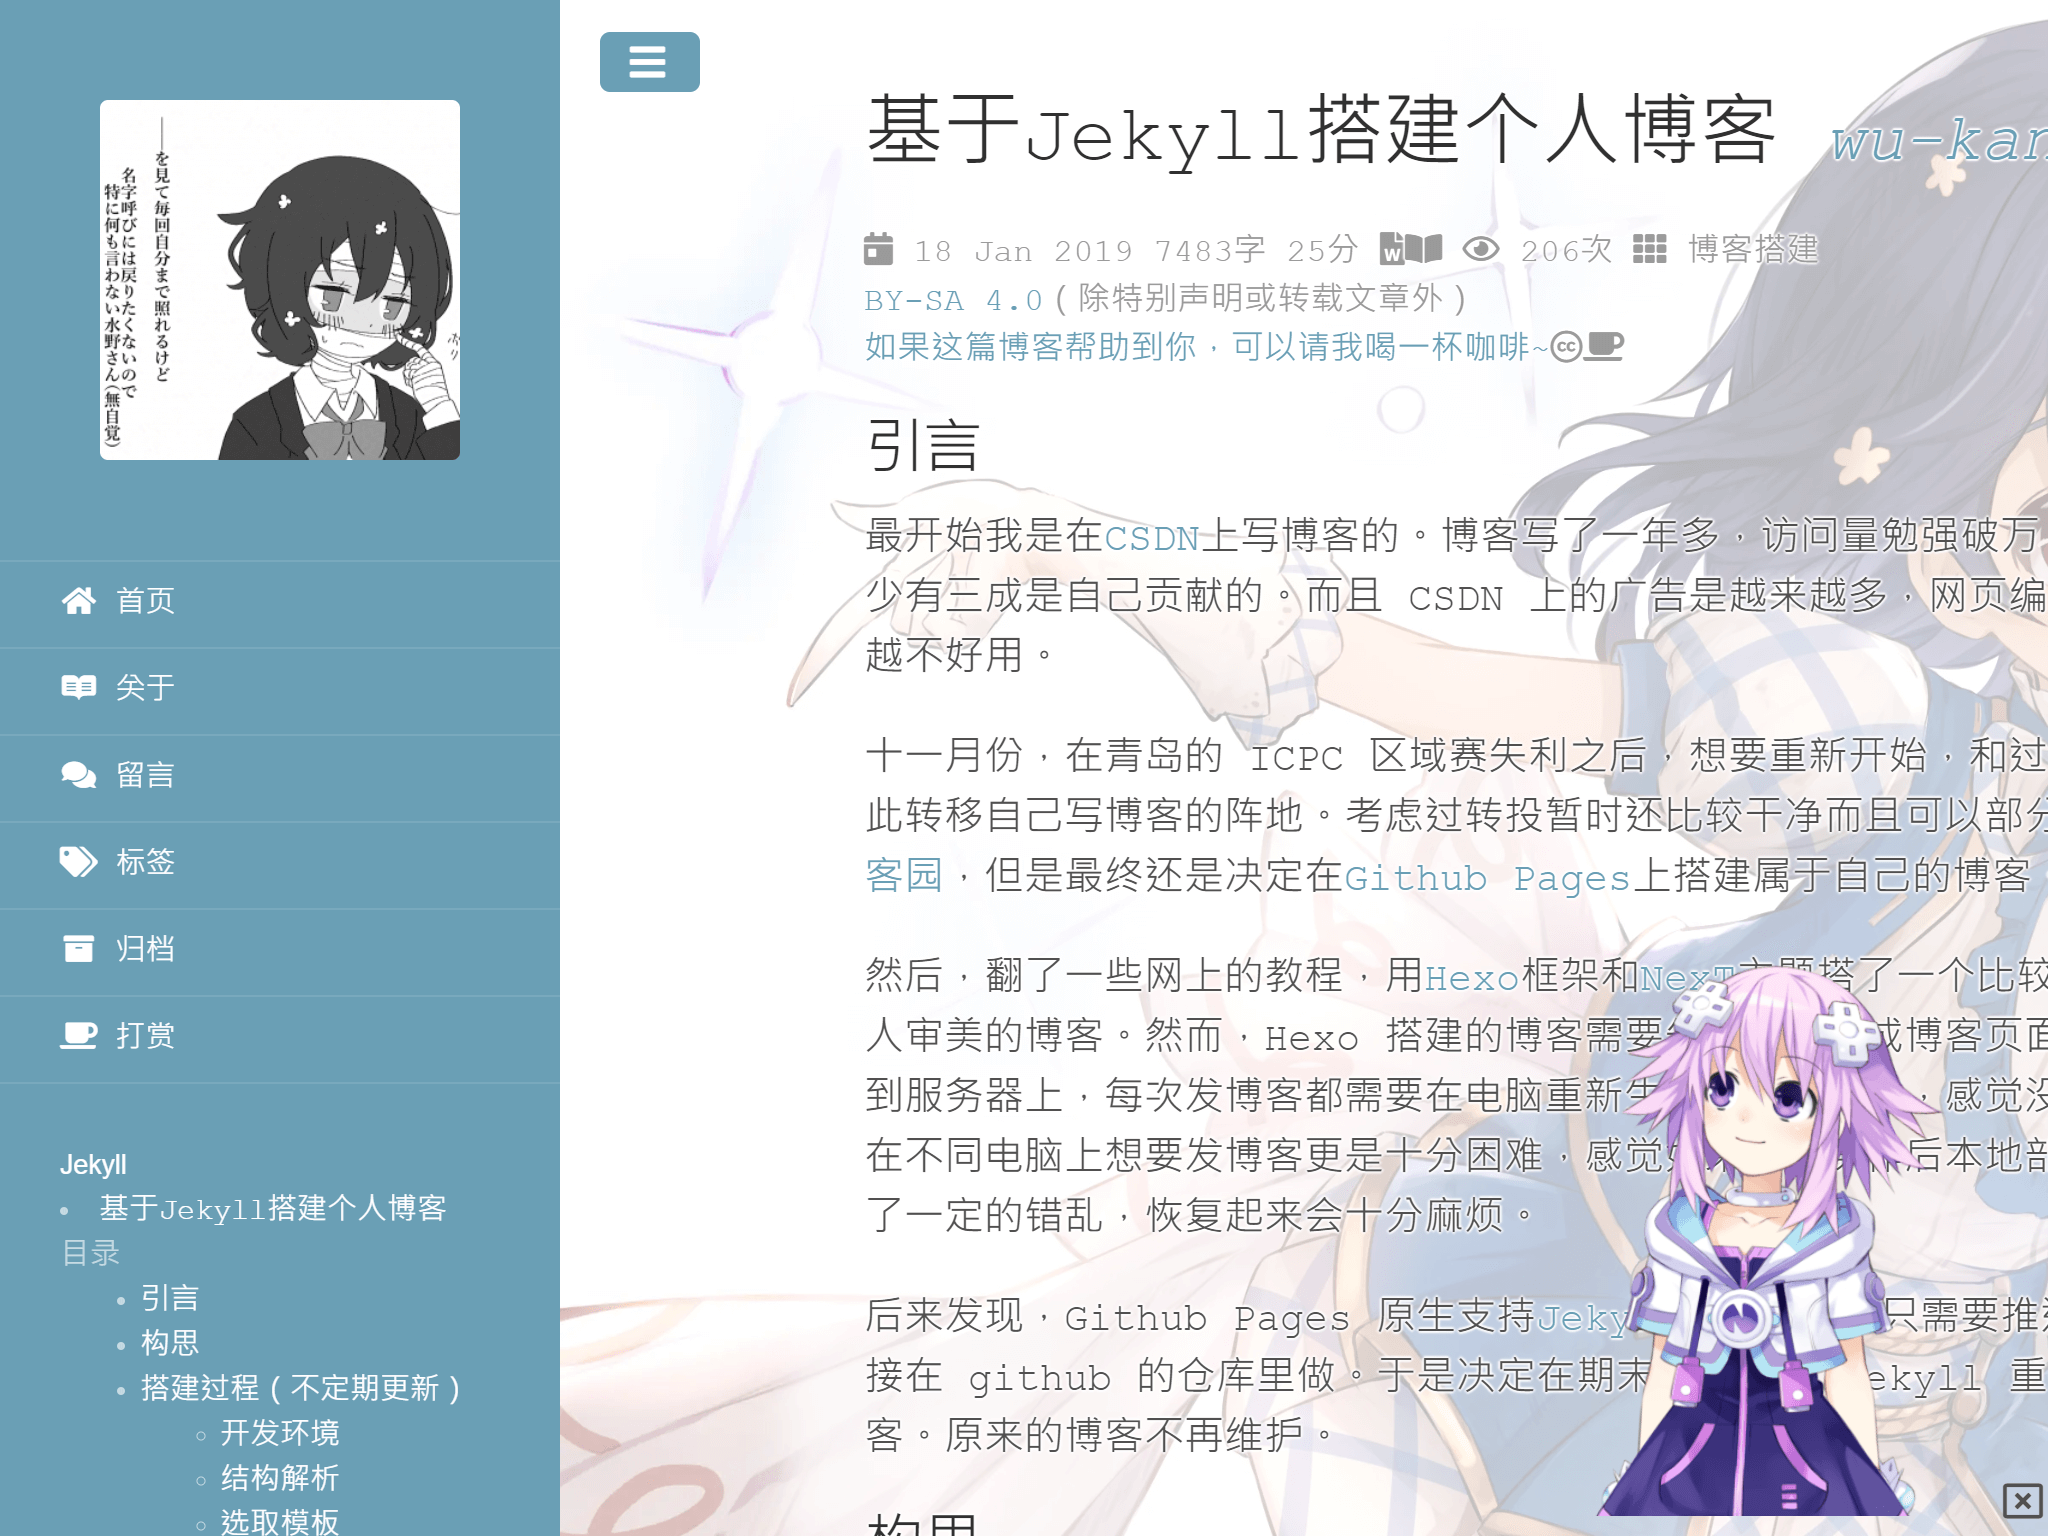
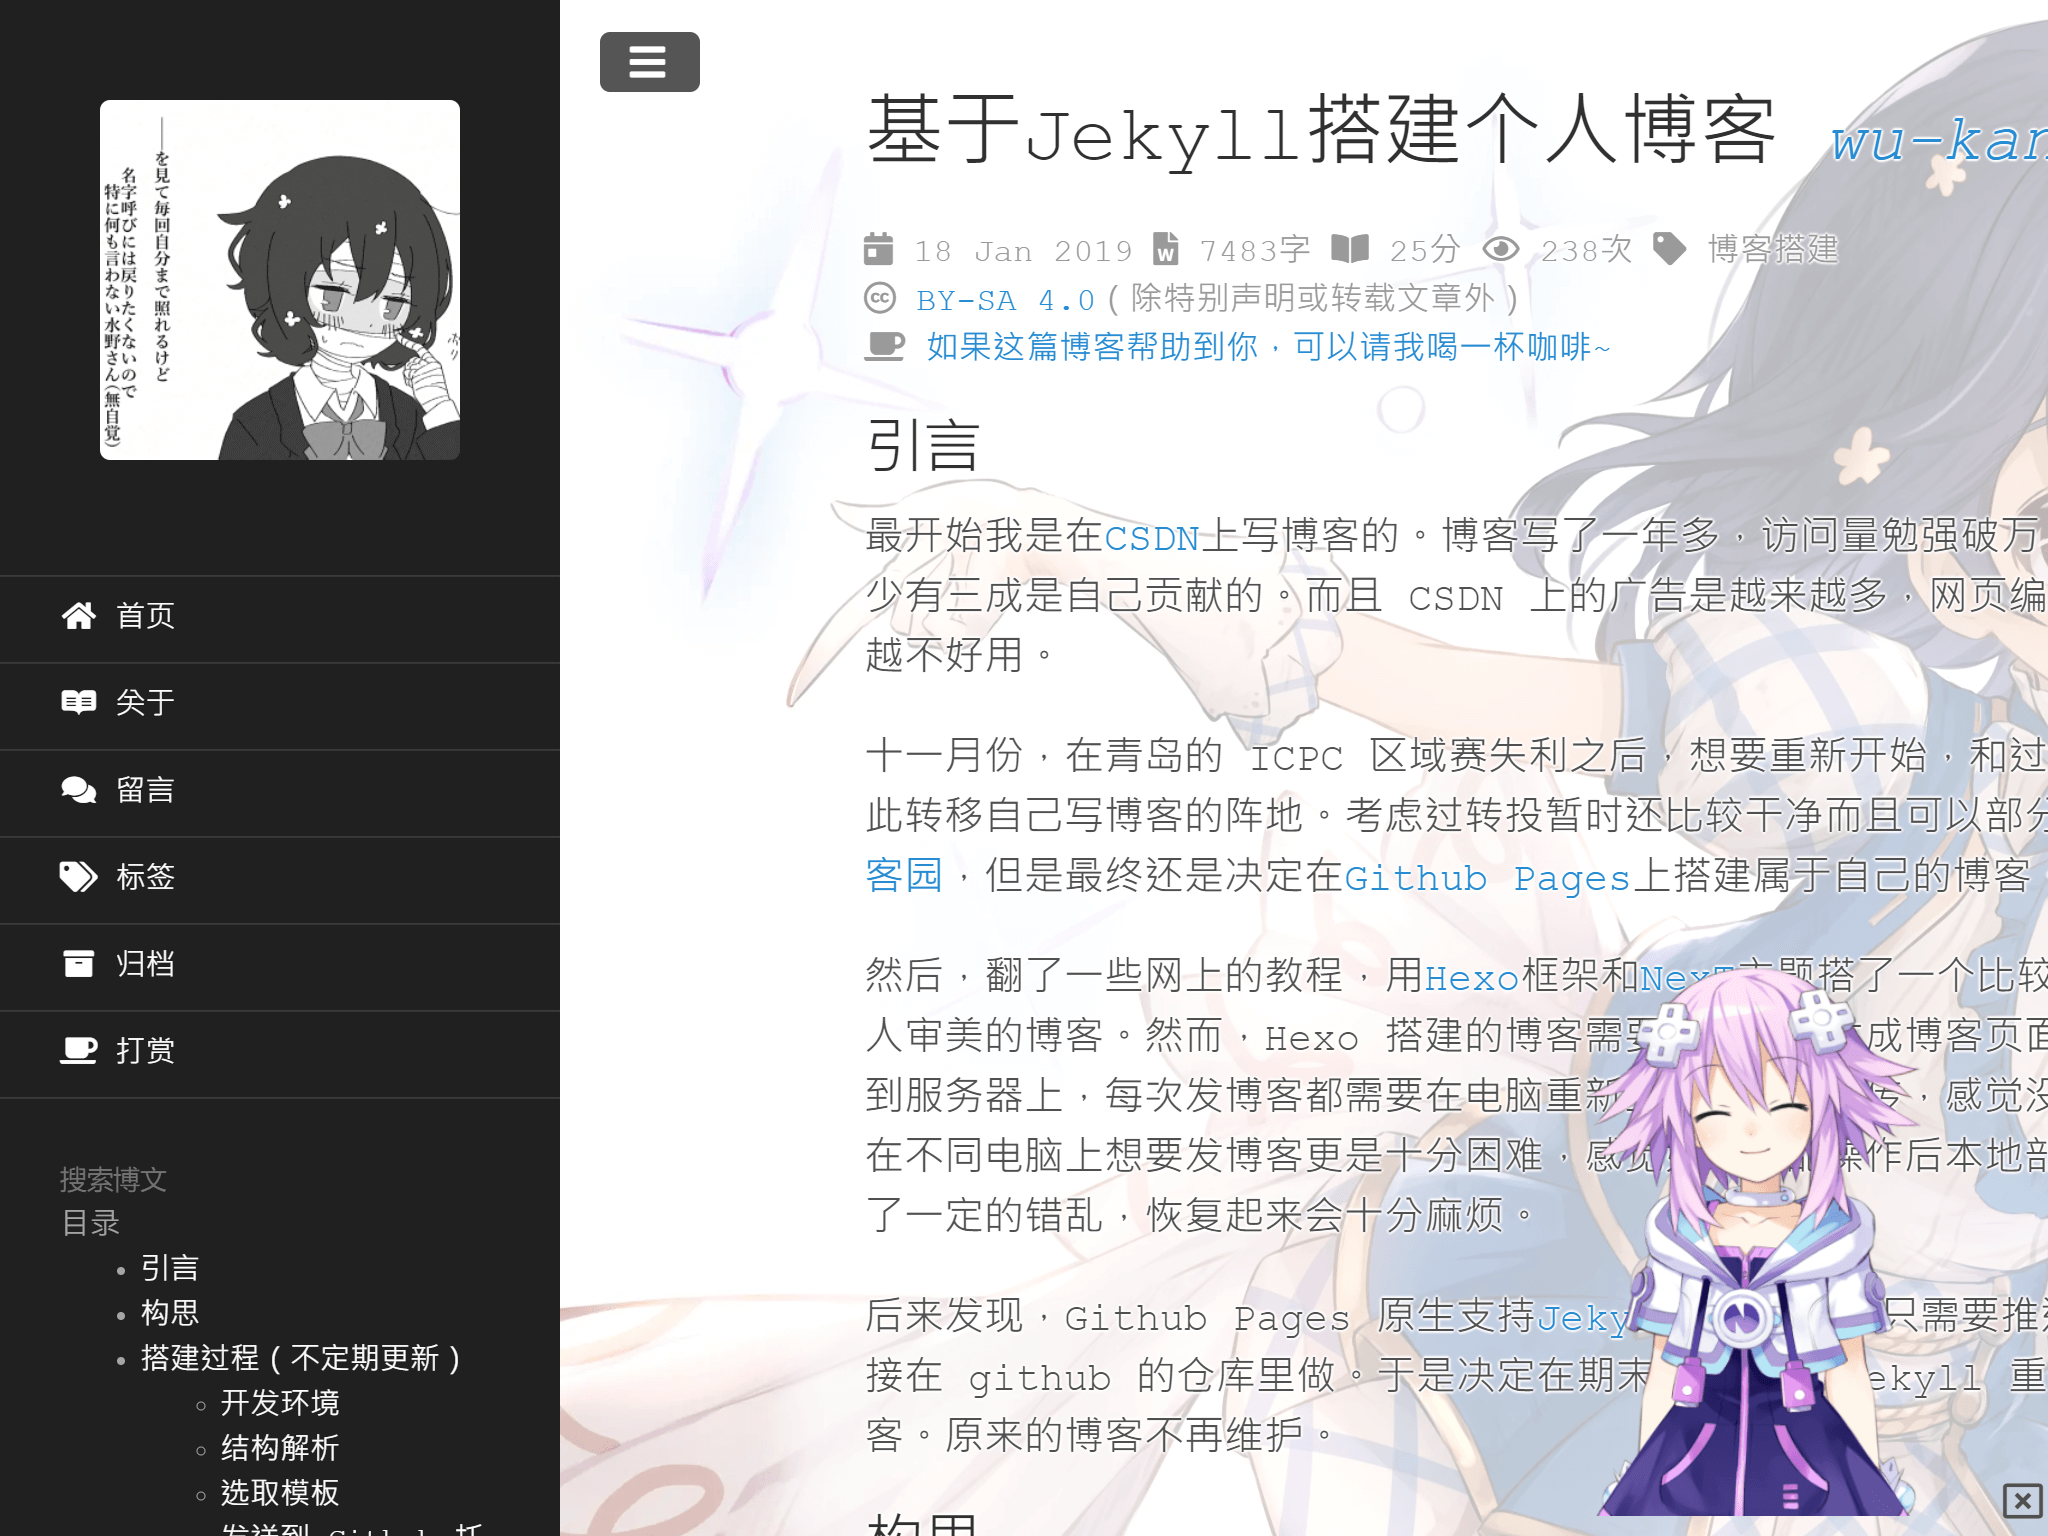
v3.0.0完成~

diff --git a/_layouts/page.html b/_layouts/page.html
@@ -16,9 +16,9 @@
   <div class="sidebar" id="sidebar">
     {% if site.page.sidebar.avatar.enable %}
     <div class="sidebar-item">
-      <div class="ih-item circle effect right_to_left">
-        <img class="img" src="{{ site.page.sidebar.avatar.img }}" alt="img" />
-        <div class="info">
+      <div class="effect effect-right_to_left">
+        <img class="effect-img" src="{{ site.page.sidebar.avatar.img }}" alt="img" />
+        <div class="effect-info">
           {{ site.description }}
         </div>
       </div>
@@ -52,19 +52,6 @@
         {% else %}
         {{ count }}{{ site.page.sidebar.wordcount.unit }}
         {% endif %}
-      </div>
-      {% endif %}
-      {% if site.page.sidebar.last_edit.enable %}
-      <div>
-        {{ site.page.sidebar.last_edit.alert }}
-        {{ site.time | date: '%F %T' }}
-      </div>
-      {% endif %}
-      {% if site.page.sidebar.copyright.enable %}
-      <div>
-        {{ site.page.sidebar.copyright.alert }}
-        {{ site.time | date: '%Y' }}
-        {{ site.author.name }}
       </div>
       {% endif %}
     </div>

diff --git a/README.md b/README.md
@@ -4,56 +4,25 @@ title: 关于
 permalink: /about/
 ---
 
+![Stars](https://img.shields.io/github/stars/wu-kan/wu-kan.github.io.svg)![Forks](https://img.shields.io/github/forks/wu-kan/wu-kan.github.io.svg)![Watchers](https://img.shields.io/github/watchers/wu-kan/wu-kan.github.io.svg)![License](https://img.shields.io/github/license/wu-kan/wu-kan.github.io.svg)![commit-activity](https://img.shields.io/github/commit-activity/m/wu-kan/wu-kan.github.io.svg)![last-commit](https://img.shields.io/github/last-commit/wu-kan/wu-kan.github.io.svg)![contributors](https://img.shields.io/github/contributors-anon/wu-kan/wu-kan.github.io.svg)![Issues](https://img.shields.io/github/issues/wu-kan/wu-kan.github.io.svg)![Release](https://img.shields.io/github/v/release/wu-kan/wu-kan.github.io.svg)![release-date](https://img.shields.io/github/release-date/wu-kan/wu-kan.github.io.svg)![CountLanguage](https://img.shields.io/github/languages/count/wu-kan/wu-kan.github.io.svg)![TopLanguage](https://img.shields.io/github/languages/top/wu-kan/wu-kan.github.io.svg)![CodeSize](https://img.shields.io/github/languages/code-size/wu-kan/wu-kan.github.io.svg)![RepoSize](https://img.shields.io/github/repo-size/wu-kan/wu-kan.github.io.svg)![Downloads](https://img.shields.io/github/downloads/wu-kan/wu-kan.github.io/total.svg)
+
 ## 开始
 
 1. Fork [wu-kan/wu-kan.github.io](https://github.com/wu-kan/wu-kan.github.io/fork)到你的仓库，并在设置里开启 gh-pages
-2. 修改`_config.yml`为你自己的信息
-3. 修改`CNAME`中的网址为你自己的网址，如`wu-kan.github.io`或者`wu-kan.cn`
-4. 删除`_post/`下的博文和`assets/image/`目录下的图片，开始写你自己的文章
-5. 配置过程推荐以下几篇博文：
+   - 由于我的博客仍然在持续更新调整，建议在 Tag 或者 Release 中选择已发布的稳定版本食用~
+2. 修改`CNAME`中的网址为你自己的网址，如`wu-kan.github.io`或者`wu-kan.cn`
+3. 现在你的网址应该可以访问了，配置`_config.yml`你自己的信息，能看懂多少就改多少；配置过程推荐以下几篇博文：
    - [基于 Jekyll 搭建个人博客](https://wu-kan.cn/_posts/2019-01-18-%E5%9F%BA%E4%BA%8EJekyll%E6%90%AD%E5%BB%BA%E4%B8%AA%E4%BA%BA%E5%8D%9A%E5%AE%A2/)
    - [Markdown 写作心得](https://wu-kan.cn/_posts/2019-01-18-%E5%9F%BA%E4%BA%8EJekyll%E6%90%AD%E5%BB%BA%E4%B8%AA%E4%BA%BA%E5%8D%9A%E5%AE%A2/)
    - [个人网站优化之旅](https://wu-kan.cn/_posts/2020-02-06-%E4%B8%AA%E4%BA%BA%E7%BD%91%E7%AB%99%E4%BC%98%E5%8C%96%E4%B9%8B%E6%97%85/)
-
-![Demo](/screenshot.png)
+4. 删除`_post/`下的博文和`assets/image/`目录下的图片，开始写你自己的文章
+5. 欢迎 Star、Fork、Issue！
 
 ## 声明
 
 除特别声明或转载外，所有博文采用[署名-相同方式共享 4.0 国际](https://creativecommons.org/licenses/by-sa/4.0/deed.zh)协议进行许可。
 
 博客基于[MIT License](https://github.com/wu-kan/wu-kan.github.io/blob/master/LICENSE)开源于[GitHub](https://github.com/wu-kan/wu-kan.github.io)。
-
-## 致谢
-
-托管于[Github Pages](https://pages.github.com/)，感谢。
-
-博客引擎来自于[jekyll/jekyll](https://github.com/jekyll/jekyll)，感谢。
-
-CDN 加速服务来自于<https://cdn.jsdelivr.net/>和<https://loli.net>，感谢。
-
-博客主题基于[poole/lanyon](https://github.com/poole/lanyon)，感谢。
-
-图标库来自于[<i class="fab fa-font-awesome"></i>fontawesome-free](https://fontawesome.com/)，感谢。
-
-留言和阅读量系统来自于[Valine](https://valine.js.org/)和[LeanCloud](https://leancloud.cn/)，感谢。
-
-捐赠页来自[hifocus/merger](https://github.com/hifocus/merger)，感谢。
-
-页面统计来自于[不蒜子](http://busuanzi.ibruce.info/)，感谢。
-
-博客搜索插件来自于[christian-fei/Simple-Jekyll-Search](https://github.com/christian-fei/Simple-Jekyll-Search)，感谢。
-
-博文目录插件来自于[yijian166/md-toc.js](https://github.com/yijian166/md-toc.js)，感谢。
-
-代码高亮及插件来自于[PrismJS](https://prismjs.com/)，感谢。
-
-Live2D 前端插件来自于[kooritea/live2d-helper](https://github.com/kooritea/live2d-helper)，感谢。
-
-Live2D Model 来自于[fghrsh/live2d_api](https://github.com/fghrsh/live2d_api/tree/master/model/HyperdimensionNeptunia/nepnep)，感谢。
-
-头像翻转效果来自于[leopardpan/leopardpan.github.io](https://github.com/leopardpan/leopardpan.github.io)，感谢。
-
-头像、壁纸来自于<https://www.pixiv.net/artworks/72096124>、<https://www.pixiv.net/artworks/71932901>和<https://www.pixiv.net/artworks/76122909>，感谢（侵权必删）。
 
 ## 初心
 
@@ -69,24 +38,26 @@ Live2D Model 来自于[fghrsh/live2d_api](https://github.com/fghrsh/live2d_api/t
 >
 > > “‘自然选择’，前进四！”
 
+目标是实现一个尽可能简洁，而可定制内容又尽可能多的博客。目前博客的预览如下：
+
+![Demo](/screenshot.png)
+
 ## 历程
 
-### 即将发布 v3.0.0
+### 2020-02-14 v3.0.0
 
+- [x] 插件引入方式完全重构，现在直接嵌入 html 即可
 - [x] 更换 live2d 插件为[kooritea/live2d-helper](https://github.com/kooritea/live2d-helper)，从而支持 live2d 定制
-  - [ ] 调整 live2d 选项
-  - [ ] 增加 live2d 工具栏
-    - [ ] 隐藏按钮
-- [ ] 全站使用 webp 图片，加快访问速度
-- [x] 插件引入方式完全重构
+  - [x] 看板娘隐藏按钮
 - [x] 去除 jQuery
+- [x] 去除 categories 标签，使用 tags 代替
 - [x] 博客结构调整，把`/public`目录迁移到 jekyll 默认的`/assets`
 - [x] merger 打赏页
-- [x] $\KaTeX$ 行间公式
-- [x] 全局搜索
-- [x] 修复 githubpage 显示更新时间不正确的问题
+- [x] 侧边栏样式调整，更加简洁
+- [x] 主题色由青色调整成爱酱灰（zoombie ver）+爱酱蓝（idol ver）
 - [x] 为竖屏显示增加壁纸
-- [x] 修改选中内容颜色
+- [x] 全局搜索
+- [x] $\KaTeX$ 行间公式
 
 ### 2020.01.31 v2.4.1
 
@@ -265,3 +236,35 @@ Live2D Model 来自于[fghrsh/live2d_api](https://github.com/fghrsh/live2d_api/t
 - 在 Github 上成功部署博客
 - 成功迁移[原 CSDN 博客](https://blog.csdn.net/w_weilan)上的所有文章
 - live2d
+
+## 致谢
+
+托管于[Github Pages](https://pages.github.com/)，感谢。
+
+博客引擎来自于[jekyll/jekyll](https://github.com/jekyll/jekyll)，感谢。
+
+CDN 加速服务来自于<https://cdn.jsdelivr.net/>和<https://loli.net>，感谢。
+
+博客主题基于[poole/lanyon](https://github.com/poole/lanyon)，感谢。
+
+图标库来自于[<i class="fab fa-font-awesome"></i>fontawesome-free](https://fontawesome.com/)，感谢。
+
+留言和阅读量系统来自于[Valine](https://valine.js.org/)和[LeanCloud](https://leancloud.cn/)，感谢。
+
+捐赠页来自[hifocus/merger](https://github.com/hifocus/merger)，感谢。
+
+页面统计来自于[不蒜子](http://busuanzi.ibruce.info/)，感谢。
+
+博客搜索插件来自于[christian-fei/Simple-Jekyll-Search](https://github.com/christian-fei/Simple-Jekyll-Search)，感谢。
+
+博文目录插件来自于[yijian166/md-toc.js](https://github.com/yijian166/md-toc.js)，感谢。
+
+代码高亮及插件来自于[PrismJS](https://prismjs.com/)，感谢。
+
+Live2D 前端插件来自于[kooritea/live2d-helper](https://github.com/kooritea/live2d-helper)，感谢。
+
+Live2D Model 来自于[fghrsh/live2d_api](https://github.com/fghrsh/live2d_api/tree/master/model/HyperdimensionNeptunia/nepnep)，感谢。
+
+头像翻转效果来自于[leopardpan/leopardpan.github.io](https://github.com/leopardpan/leopardpan.github.io)，感谢。
+
+头像、壁纸来自于<https://www.pixiv.net/artworks/72096124>、<https://www.pixiv.net/artworks/71932901>和<https://www.pixiv.net/artworks/76122909>，感谢（侵权必删）。

diff --git a/index.md b/index.md
@@ -61,4 +61,4 @@ TBD
 - [这一年的一点感想](https://wu-kan.cn/_posts/2019-07-18-%E8%BF%99%E4%B8%80%E5%B9%B4%E7%9A%84%E4%B8%80%E7%82%B9%E6%84%9F%E6%83%B3/)
 - [再见，算法竞赛！](https://wu-kan.cn/_posts/2019-11-04-%E5%86%8D%E8%A7%81-%E7%AE%97%E6%B3%95%E7%AB%9E%E8%B5%9B/)
 - [Markdown 写作心得](https://wu-kan.cn/_posts/2020-01-18-Markdown%E5%86%99%E4%BD%9C%E5%BF%83%E5%BE%97/)
-- [今日此时所想之事](https://wu-kan.cn/_posts/2019-07-18-%E8%BF%99%E4%B8%80%E5%B9%B4%E7%9A%84%E4%B8%80%E7%82%B9%E6%84%9F%E6%83%B3/)
+- [今日此时所想之事](http://wu-kan.cn/_posts/2020-01-24-%E4%BB%8A%E6%97%A5%E6%AD%A4%E6%97%B6%E6%89%80%E6%83%B3%E4%B9%8B%E4%BA%8B/)

diff --git a/_posts/2019-01-18-基于Jekyll搭建个人博客.md b/_posts/2019-01-18-基于Jekyll搭建个人博客.md
@@ -135,7 +135,7 @@ wu-kan.github.io
   defer="defer"
   src="https://cdn.jsdelivr.net/npm/live2d-helper@1.0.0/dist/index.min.js"
   onload='
-    if (screen.width >= 768)
+    if (screen.width >= screen.height)
     {
       var waifu = document.createElement("canvas");
       waifu.style.zIndex = 0;
